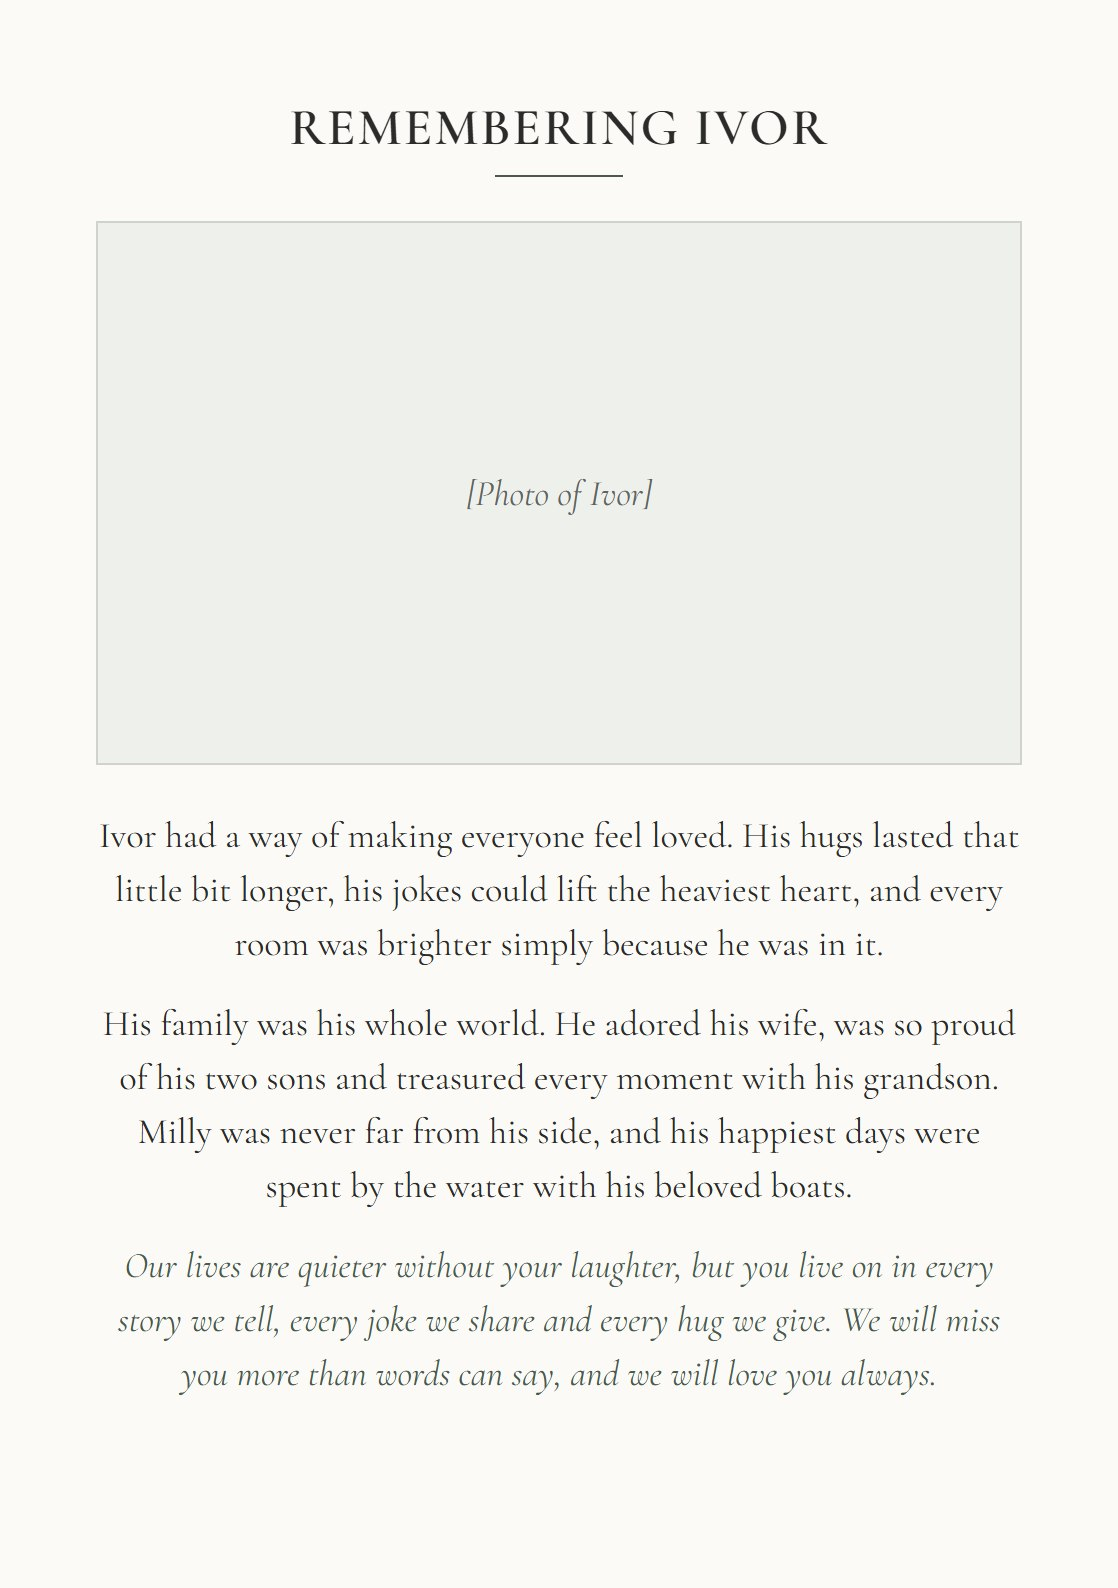
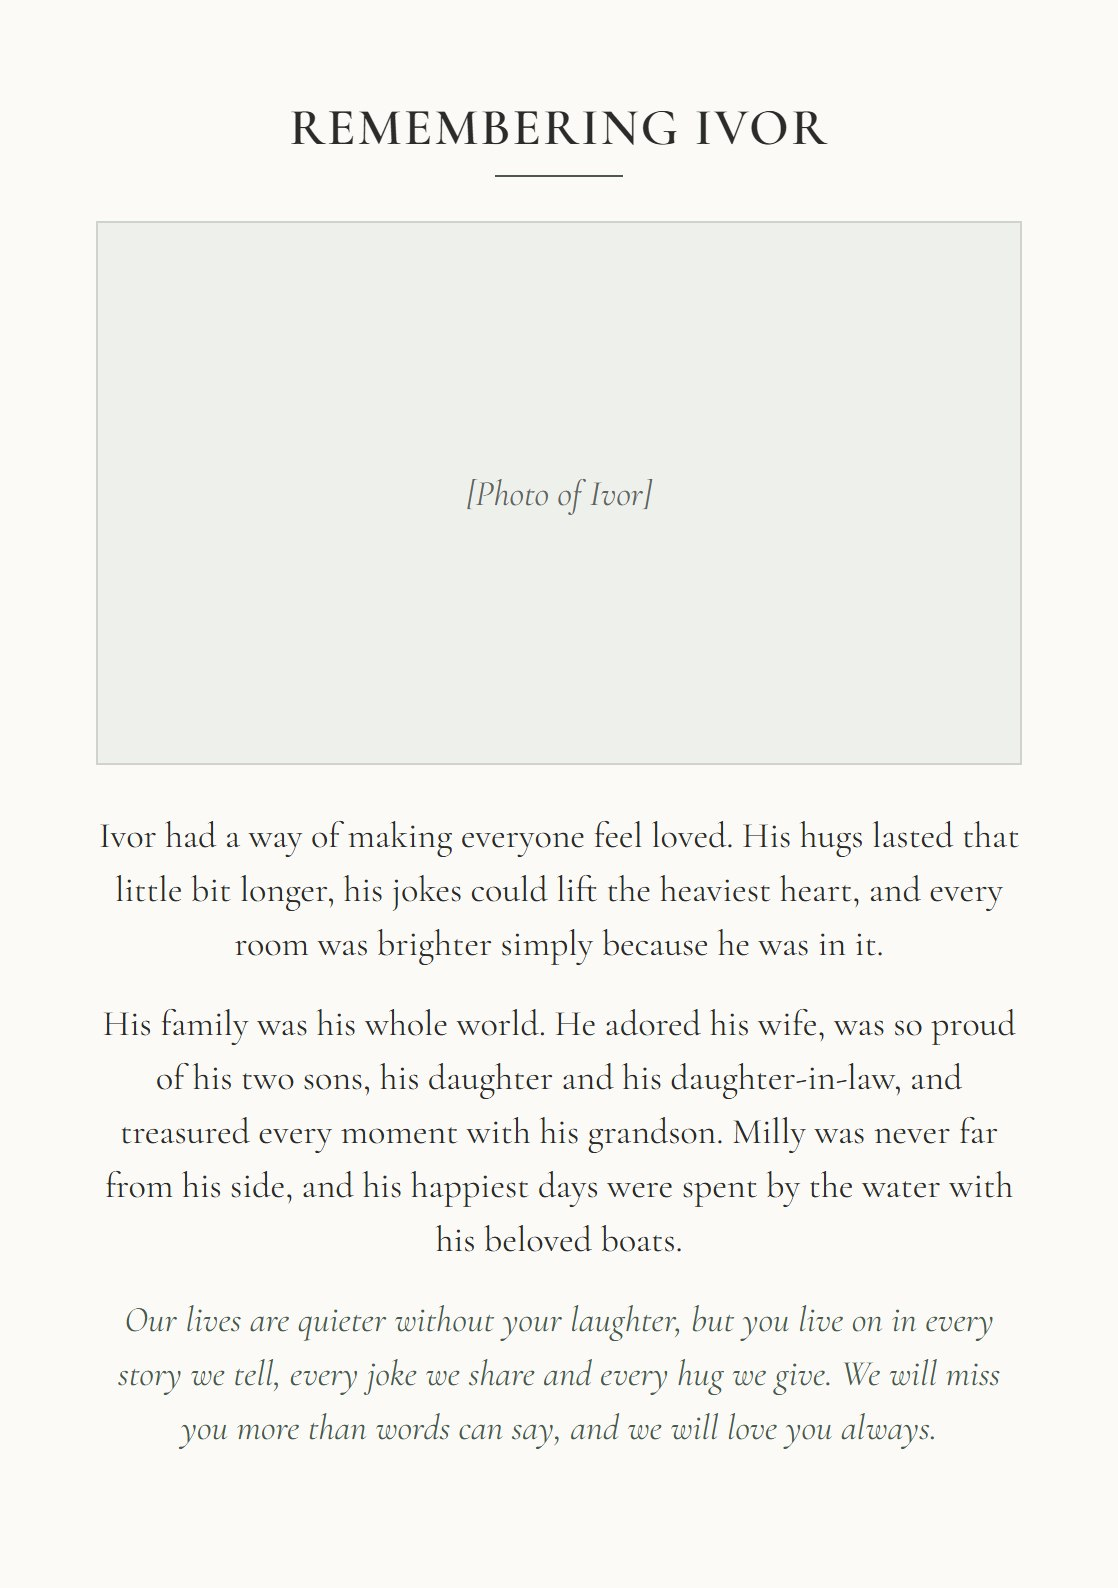
Remembering Ivor: add daughter and daughter-in-law

Changed region(s): [[0.0912, 0.648, 0.9123, 0.9257]]

diff --git a/index.html b/index.html
@@ -327,7 +327,7 @@ const DRAFTS=[
  ["Order of service","p3","Page 3 · Hymn","drafts/Ivor-3-hymn.jpg?v=2"],
  ["Order of service","p4","Page 4 · Reading","drafts/Ivor-4-reading.jpg?v=3"],
  ["Order of service","p5","Page 5 · Eulogy","drafts/Ivor-5-about-ivor.jpg?v=2"],
- ["Order of service","p6","Page 6 · Remembering Ivor","drafts/Ivor-6-photos.jpg?v=4"],
+ ["Order of service","p6","Page 6 · Remembering Ivor","drafts/Ivor-6-photos.jpg?v=5"],
  ["Order of service","col","Page 7 · Photo collage","drafts/Ivor-7-collage.jpg"],
  ["Order of service","st1","Page 8 · Stories of Ivor","drafts/Ivor-8-stories.jpg"],
  ["Order of service","st2","Page 9 · Stories of Ivor (continued)","drafts/Ivor-9-stories.jpg"],
